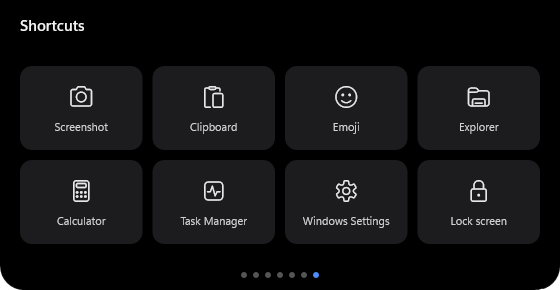
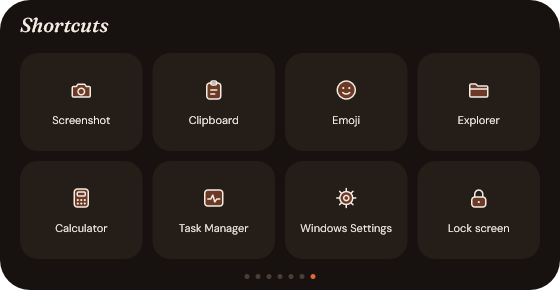
docs: v3 Studio README and fresh screenshots
Regenerate the screenshots from the debug build's demo modes in English
(DI_LANG=en) with scripts/capture-screenshots.ps1, which copies each
window over a black and a white backdrop to keep its rounded shape on a
transparent background. New: calendar-day, notch, pomodoro, reminders,
notes, music, cli, robot, greeting, editor and reminder-editor.

README: Studio palette, fonts with their copyright lines, the island's
own icons and editors, weekly reminders on several days with time
shortcuts, the CLI's keyboard focus, Bata and the morning greeting, the
new Appearance rows, read-only calendars, and the measured exe size
(1,690,624 bytes, cargo build --release --locked).

diff --git a/README.md b/README.md
@@ -1,15 +1,15 @@
-<p align="center"><img src="assets/logo-256.png" width="96" height="96" alt="Dynamic Island logo"></p>
+<p align="center"><img src="assets/logo-256.png" width="96" height="96" alt="Dynamic Island logo: a dark pill with a cream dot on a terracotta tile"></p>
 
 # Dynamic Island for Windows
 
-A macOS-style island for the top of your Windows 11 screen: notifications, calendar, pomodoro, reminders, notes, music and more, in a native Rust app (Win32 + Direct2D, no browser engine).
+A macOS-style island for the top of your Windows 11 screen: notifications, calendar, pomodoro, reminders, notes, music, a command line and more, in a native Rust app (Win32 + Direct2D, no browser engine). Version 3 brings the **Studio** look: warm terracotta and espresso colours, its own fonts and icons, and Bata, a small robot that lives in the notch.
 
 <p align="center">
-  <img src="assets/screenshots/calendar.png" width="420" alt="Calendar page, month view">
-  <img src="assets/screenshots/shortcuts.png" width="420" alt="Shortcuts page">
+  <img src="assets/screenshots/calendar.png" width="420" alt="Calendar page in month view: October 2026 with today circled in terracotta, and today's events listed on the right">
+  <img src="assets/screenshots/shortcuts.png" width="420" alt="Shortcuts page: eight tiles for Screenshot, Clipboard, Emoji, Explorer, Calculator, Task Manager, Windows Settings and Lock screen">
 </p>
 
-Dokumentasi bahasa Indonesia dan desain: lihat [`docs/`](docs/).
+Design documents (in Indonesian) are in [`docs/design/`](docs/design/).
 
 ## Install
 
@@ -19,7 +19,7 @@ Windows 11, 64-bit. Open **PowerShell** (no admin needed) and run:
 irm https://raw.githubusercontent.com/hartono0297/dynamic-island/main/install.ps1 | iex
 ```
 
-The script downloads the latest [release](https://github.com/hartono0297/dynamic-island/releases), checks its SHA-256, installs `dynamic-island.exe` (one file, about 1.2 MB, no runtime needed) to `%LOCALAPPDATA%\Programs\DynamicIsland`, adds a Start Menu shortcut and starts the island.
+The script downloads the latest [release](https://github.com/hartono0297/dynamic-island/releases), checks its SHA-256, installs `dynamic-island.exe` (one file, about 1.7 MB, no runtime needed) to `%LOCALAPPDATA%\Programs\DynamicIsland`, adds a Start Menu shortcut and starts the island.
 
 - **Update:** run the same line again. Your settings, notes and Google login are kept.
 - **Without the script:** download `dynamic-island-<version>.zip` from Releases, extract it, right-click `install.ps1` → *Run with PowerShell*. The exe also runs from any folder.
@@ -36,30 +36,64 @@ On first run, Windows asks for access to your notifications: allow it.
 
 - **Always-visible notch** at the top centre, with a clock when idle. It hides only for fullscreen apps; clicks outside its shape pass through.
 - **Hover to open the panel**, scroll the mouse wheel to change pages: **Calendar → Pomodoro → Reminders → Notes → Music → CLI → Shortcuts**.
-- **Calendar:** Google Calendar with Day / Week / Month views; add and edit events. Recurring and multi-day events are read-only. Works offline from the last sync.
+- **Calendar:** Google Calendar with Month, Week and Day views. The day view is an hour timeline with a line at the current time. Add and edit events in the island's own editor; repeating events, events over several days and events on calendars you can only view open read-only. Events can't be deleted from the island. Works offline from the last sync.
 - **Pomodoro:** progress ring, start/pause/reset/skip, a small timer in the notch while it runs. Durations are set in Settings.
-- **Reminders:** once, daily or weekly. Reminders that came due while the island was off fire at startup, marked "Missed".
+- **Reminders:** once, daily, or weekly on one or more days of the week, set in the island's own reminder editor with time shortcuts (*In 30 min*, *In 1 hour*, *Tonight*, *Tomorrow morning*) and a summary of when it rings next. Reminders that came due while the island was off fire at startup, marked "Missed".
 - **Notes:** quick local notes, saved when the editor closes.
-- **Music:** cover, title and controls for whatever is playing (Spotify, browser, ...), an animated equalizer in the notch, and optional synced lyrics in the notch from [lrclib.net](https://lrclib.net).
-- **Notifications:** every Windows toast shows in the island; click one to open its app. Turn on Windows *Do Not Disturb* to avoid seeing them twice (Settings → General → *Turn off Windows pop-ups* shows how).
+- **Music:** cover, title, a progress bar and controls for whatever is playing (Spotify, browser, ...), an animated equalizer in the notch, and optional synced lyrics in the notch from [lrclib.net](https://lrclib.net).
+- **Notifications:** every Windows toast shows in the island; click one to open its app. Turn on Windows *Do Not Disturb* to avoid seeing them twice (Settings → General → *Turn off Windows pop-ups* shows how). A low-battery notice comes at the threshold set in Settings.
 - **Claude Code:** "Claude finished" and "Claude needs you" notices through Claude Code hooks.
 - **Shortcuts:** Screenshot, Clipboard, Emoji, Explorer, Calculator, Task Manager, Windows Settings, Lock screen.
-- **CLI:** run one command at a time in PowerShell or cmd right on the panel's CLI page: click the terminal to type (the panel stays open until Esc or a click elsewhere), with history suggestions (Tab), `cd`, `cls`, Stop / Ctrl+C and an enlarge button. A command keeps running while the panel is closed.
-- **Themes and languages:** Pill or Notch shape, six accent colours, Black or Graphite island, light/dark windows; Indonesian (default) or English.
+- **CLI:** run one command at a time in PowerShell or cmd on the panel's CLI page. The island takes the keyboard only while you type: click the terminal to start (the panel stays open while you type). Esc hands the keyboard back to the app you were in; a click outside the island releases it to whatever you clicked. History suggestions (Tab, ↑), `cd`, `cls`, Stop / Ctrl+C and an enlarge button. A command keeps running while the panel is closed.
+- **Bata, the assistant:** a small robot beside the clock and on the island's own notices (reminders, pomodoro, Claude Code, battery, greeting). It has faces for idle, happy, focus, listening, singing, alert, thinking, asleep, low and waving; it blinks, falls asleep after a while without activity and wakes when you point at the island. Other apps' notifications keep their own badge, and the open panel shows no robot.
+- **Morning greeting:** once a day, before noon, Bata says good morning with the number of today's events and reminders, at startup, after a wake or when you unlock the PC.
+- **Studio look:** the Bata palette (terracotta, espresso, cream) with six accent colours, Espresso or Graphite island fill, light/dark windows; Fraunces, DM Sans and DM Mono built into the exe; the island's own vector icons. Pill or Notch shape. Indonesian (default) or English.
+
+<p align="center">
+  <img src="assets/screenshots/calendar-day.png" width="420" alt="Calendar day view: an hour timeline with two all-day events on top, a design review and a coordination meeting, and a terracotta line at the current time">
+  <img src="assets/screenshots/notch.png" width="420" alt="Calendar week view in the Notch shape, whose top corners curve into the screen edge; each day is a column of event chips">
+</p>
+
+<p align="center">
+  <img src="assets/screenshots/pomodoro.png" width="420" alt="Pomodoro page: a terracotta progress ring around 18:42 left in focus session 2 of 4, with reset, pause and skip buttons">
+  <img src="assets/screenshots/reminders.png" width="420" alt="Reminders page grouped under Today, Tomorrow and a date, with a Missed badge on an overdue reminder and repeat icons on repeating ones">
+</p>
+
+<p align="center">
+  <img src="assets/screenshots/notes.png" width="420" alt="Notes page: four note cards with a title, two lines of text and when each was last changed">
+  <img src="assets/screenshots/music.png" width="420" alt="Music page: a sunset cover, the track title in italic serif, a progress bar at 1:42 of 3:58, playback controls and a Lyrics button">
+</p>
+
+<p align="center">
+  <img src="assets/screenshots/cli.png" width="560" alt="CLI page inside the panel: git status, ls and git pull with their output, a done 2.1 s chip, the PowerShell shell, and the focused input with the hint that the panel stays open while you type">
+</p>
+
+<p align="center">
+  <img src="assets/screenshots/editor.png" width="320" alt="Event editor in the dark window mode: title, date chip with Today, Tomorrow, Thursday and Next week shortcuts, start and end times with the duration, a notes field, Cancel and Save">
+  <img src="assets/screenshots/reminder-editor.png" width="320" alt="Reminder editor: date and time chips, quick times In 30 min, In 1 hour, Tonight and Tomorrow morning, Once / Daily / Weekly with Monday, Wednesday and Friday picked, and the summary Every Mon, Wed, Fri at 09:00">
+</p>
+
+<p align="center">
+  <img src="assets/screenshots/robot.png" width="460" alt="Bata's faces: idle, happy, focus, listening, singing, alert, thinking, asleep, low and waving, then a blink and the sizes from 48 to 20 px">
+  <br>
+  <img src="assets/screenshots/greeting.png" width="300" alt="Morning greeting notice: Bata waving beside Good morning, 3 events and 2 reminders today">
+</p>
 
 ## Settings
 
 Open **Settings…** from the tray icon.
 
-<p align="center"><img src="assets/screenshots/settings.png" width="560" alt="Settings window, General section"></p>
+<p align="center"><img src="assets/screenshots/settings.png" width="560" alt="Settings window, Appearance section scrolled down: accent colour, island fill, window mode, clock when idle, then the assistant card with Assistant in notch, Animation Full / Saver / Off, Sleep after 10 min and Morning greeting"></p>
 
 | Section | What's in it |
 |---|---|
-| Appearance | Island style (Pill / Notch), accent colour, island fill (Black / Graphite), window mode (Follow Windows / Dark / Light), clock when idle |
+| Appearance | A live preview of the island; island style (Pill / Notch), accent colour (Terracotta, Sage, Ochre, Clay, Olive, Plum), island fill (Espresso / Graphite), window mode (Follow Windows / Dark / Light), clock when idle. Then the assistant: assistant in notch (Bata on or off), animation (Full / Saver / Off), sleep after 1–60 minutes without activity, morning greeting |
 | General | Language (Indonesia / English), start with Windows, battery alert threshold, how to turn off Windows pop-ups, lyrics in notch, CLI shell (PowerShell / cmd) |
-| Pomodoro | Focus, break and long break length; sessions before a long break |
-| Integrations | Google Calendar client ID / secret, Save, Connect / Disconnect; install or remove Claude Code hooks |
+| Pomodoro | Focus, break and long break length; sessions before a long break (locked while a pomodoro runs) |
+| Integrations | Google Calendar: status, client ID / secret, Save, Connect / Disconnect, setup guide. Claude Code: install or remove hooks |
 | About | Version, source code, releases, data folder |
+
+**Animation:** *Full* blinks, lifts Bata when you point at it and bounces on alerts. *Saver* drops the blinking and motion but keeps the faces; Full also behaves like Saver while Windows Energy Saver is on. *Off* runs no robot timers at all: the faces still follow what happens, but Bata does not fall asleep. With the assistant off, the island looks and works as without Bata.
 
 **Claude Code hooks:** Settings → Integrations → *Install hooks* adds `Stop`, `Notification`, `UserPromptSubmit`, `PostToolUse` and `SessionEnd` hooks to `%USERPROFILE%\.claude\settings.json`. Other hooks are left alone, and a backup is kept as `settings.json.bak-dynamic-island`. Also available as `dynamic-island.exe --install-hooks` / `--uninstall-hooks`.
 
@@ -99,11 +133,13 @@ Everything lives in `%APPDATA%\DynamicIsland\`:
 2. Visual Studio 2022 Build Tools with **Desktop development with C++** and a **Windows 11 SDK**.
 3. From **PowerShell or cmd** (not Git Bash, whose `link.exe` shadows the MSVC linker):
    ```powershell
-   cargo build --release
+   cargo build --release --locked
    .\target\release\dynamic-island.exe
    ```
 
-The C runtime is linked statically (`.cargo/config.toml`), so the exe runs without the Visual C++ Redistributable. Quit the island first if it runs from `target\release`.
+The C runtime is linked statically (`.cargo/config.toml`), so the exe runs without the Visual C++ Redistributable. Quit the island first if it runs from `target\release`. Tests: `cargo test --locked`.
+
+**Screenshots:** the images above come from the debug build's demo modes (`--demo`, `--demo-robot`, `--demo-cli`, `--demo-editor`, `--settings`). With no island running, `cargo build` and then `.\scripts\capture-screenshots.ps1` regenerates them in English.
 
 **Releasing:** push a `vX.Y.Z` tag. `.github/workflows/release.yml` builds the exe and publishes it with its checksum and a zip.
 
@@ -122,7 +158,7 @@ The C runtime is linked statically (`.cargo/config.toml`), so the exe runs witho
 - Primary monitor only.
 - No inline replies or action buttons on notifications; apps that don't use Windows toasts aren't seen.
 - Notifications are polled every second (about 2–3% of one core) because the installed exe has no package identity. Builds from source can use `scripts/package.ps1` for event-driven mode.
-- Calendar is Google only; events can't be deleted from the island, and recurring or multi-day events can't be created or edited.
+- Calendar is Google only; events can't be deleted from the island, and repeating events, events over several days and events on read-only calendars can't be edited. New events are single-day.
 - CLI commands get no input (stdin), so interactive programs won't work; one command runs at a time.
 - The pomodoro timer is not kept when the island quits.
 
@@ -130,8 +166,9 @@ The C runtime is linked statically (`.cargo/config.toml`), so the exe runs witho
 
 The exe embeds Latin subsets of three typefaces, all under the SIL Open Font License 1.1:
 
-- **Fraunces** by Undercase Type (italic, for titles and the large clock)
-- **DM Sans** and **DM Mono** by Colophon Foundry, commissioned by Google Fonts (text, numbers, CLI)
+- **Fraunces** by Undercase Type, © 2018 The Fraunces Project Authors (italic, for titles and the large clock)
+- **DM Sans** by Colophon Foundry for Google Fonts, © 2014 The DM Sans Project Authors (text and numbers)
+- **DM Mono** by Colophon Foundry for Google Fonts, © 2020 The DM Mono Project Authors (the CLI)
 
 Licence texts and copyright lines are in [`assets/fonts/OFL.txt`](assets/fonts/OFL.txt). [`scripts/make-fonts.ps1`](scripts/make-fonts.ps1) rebuilds the files from pinned upstream sources.
 
